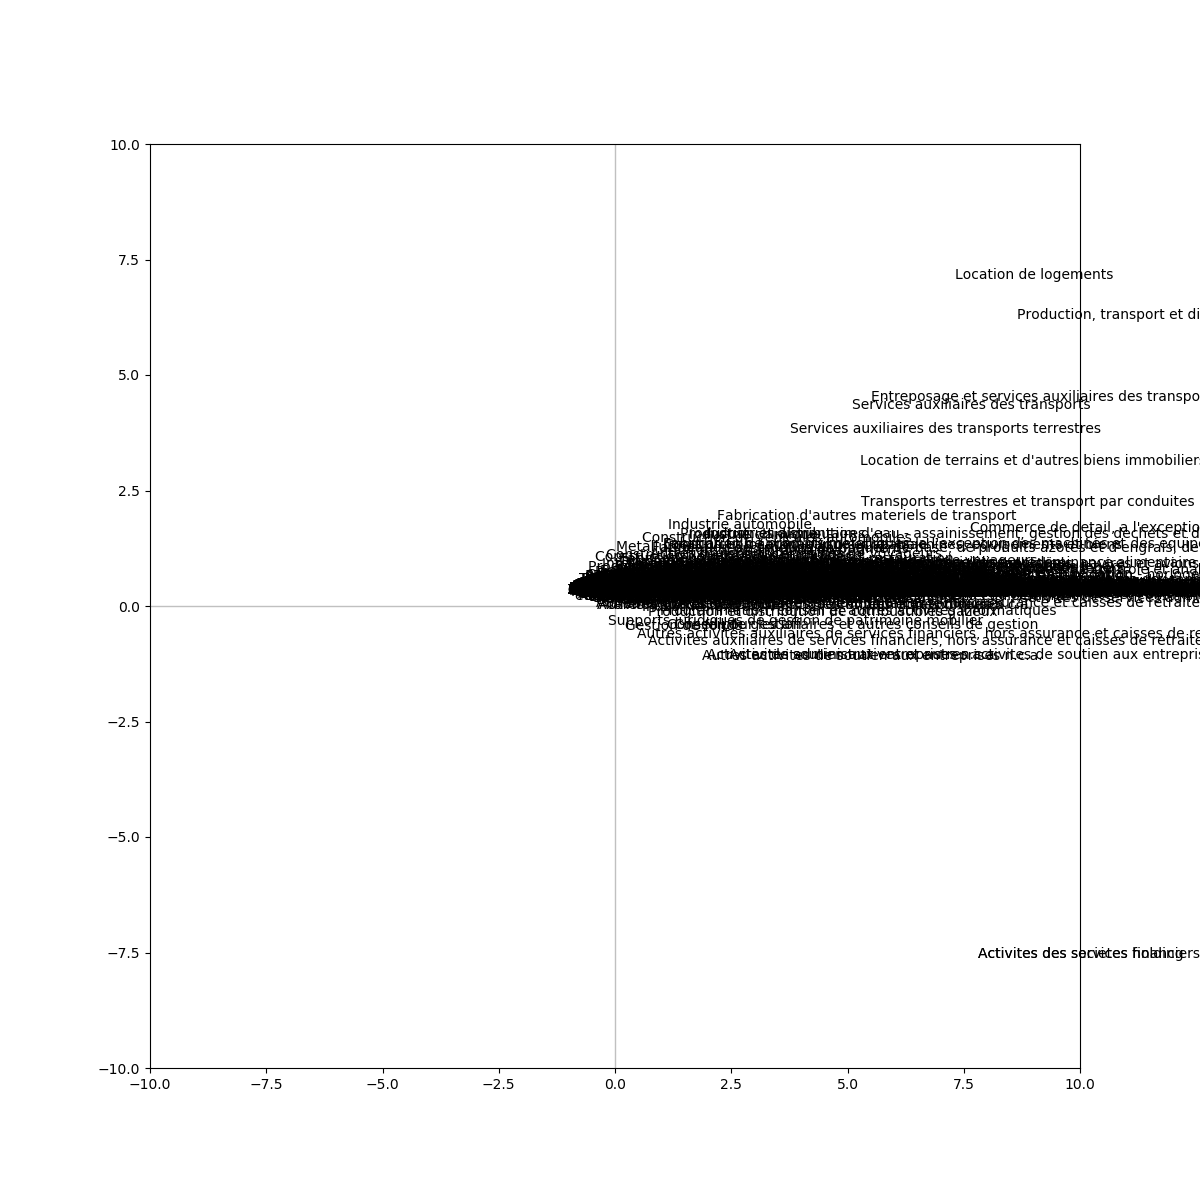
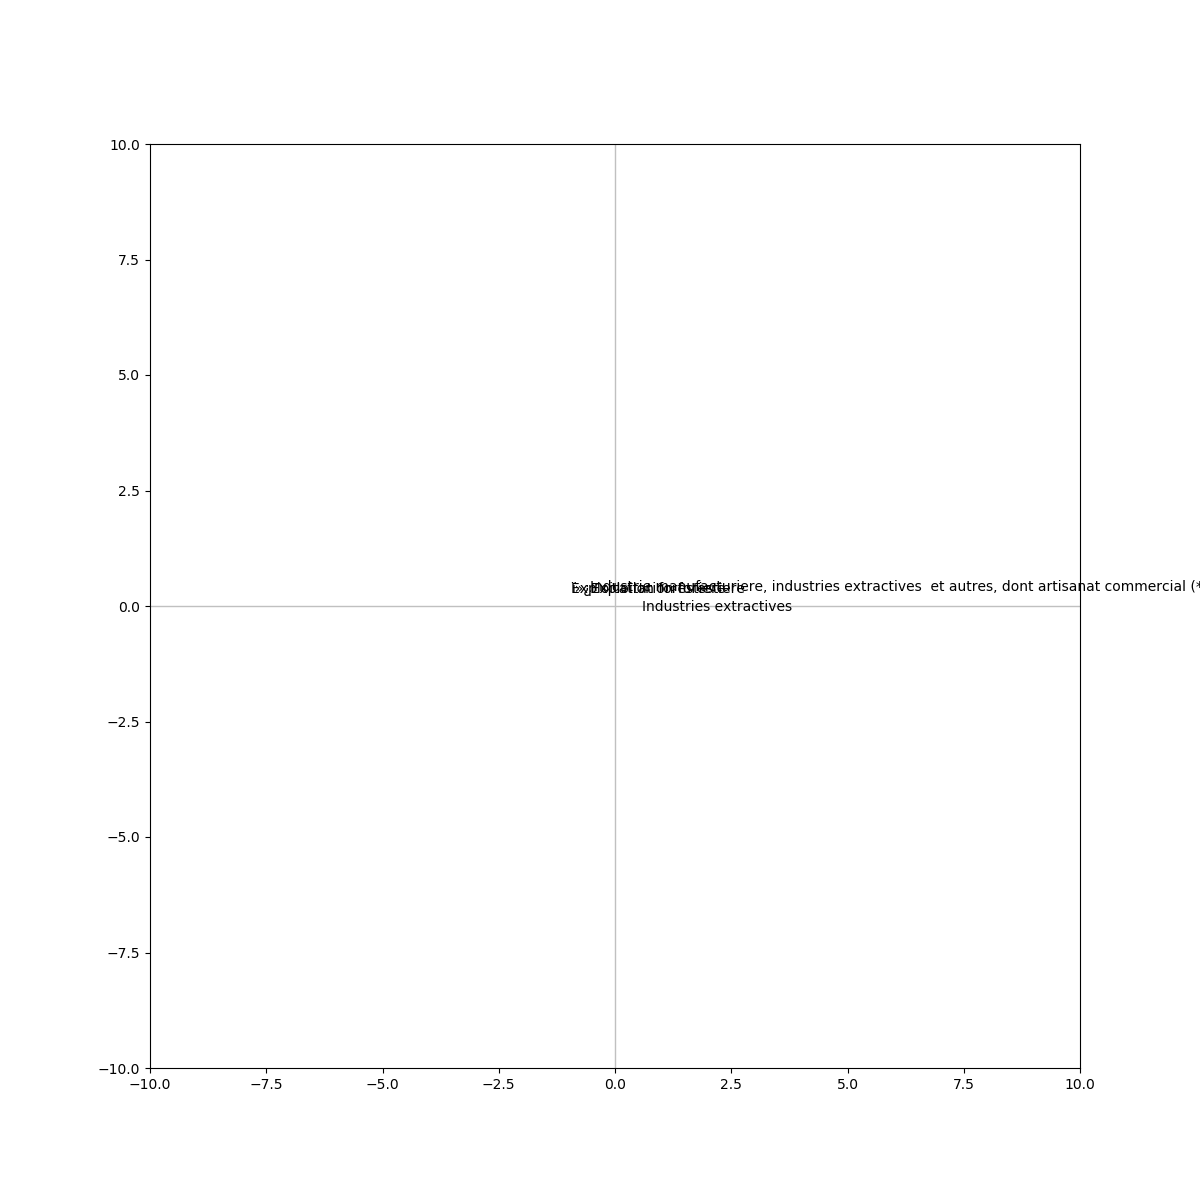
Maj

diff --git a/projet.py b/projet.py
@@ -16,6 +16,8 @@ resultat = open("resultat.txt","w")
 #Initialisation des variables
 
 i=0
+dimx = 10
+nbEle = 5
 
 temp = []
 temp2 = []
@@ -103,24 +105,24 @@ plt.savefig("fig2.png")
 plt.show() 
 
 
+for j in range(int(n/nbEle)):
 
-#positionnement des individus dans le premier plan 
-dimx = 10
-fig, axes = plt.subplots(figsize=(12,12)) 
-axes.set_xlim(-dimx,dimx) #même limites en abscisse 
-axes.set_ylim(-dimx,dimx) #et en ordonnée 
+	#positionnement des individus dans le premier plan 
+	fig, axes = plt.subplots(figsize=(12,12)) 
+	axes.set_xlim(-dimx,dimx) #même limites en abscisse 
+	axes.set_ylim(-dimx,dimx) #et en ordonnée 
 
-#placement des etiquettes des observations 
-for i in range(n):
-	plt.annotate(secteurs2[i],(coord[i,0],coord[i,1]))
+	#placement des etiquettes des observations 
+	for i in range(nbEle):
+		plt.annotate(secteurs2[i],(coord[i,0],coord[i,1]))
 
-#ajouter les axes 
-plt.plot([-dimx,dimx],[0,0],color='silver',linestyle='-',linewidth=1) 
-plt.plot([0,0],[-dimx,dimx],color='silver',linestyle='-',linewidth=1)
+	#ajouter les axes 
+	plt.plot([-dimx,dimx],[0,0],color='silver',linestyle='-',linewidth=1) 
+	plt.plot([0,0],[-dimx,dimx],color='silver',linestyle='-',linewidth=1)
 
-#affichage 
-plt.savefig("fig3.png")
-plt.show()
+	#affichage 
+	plt.savefig("fig3.png")
+	plt.show()
 
 
 
